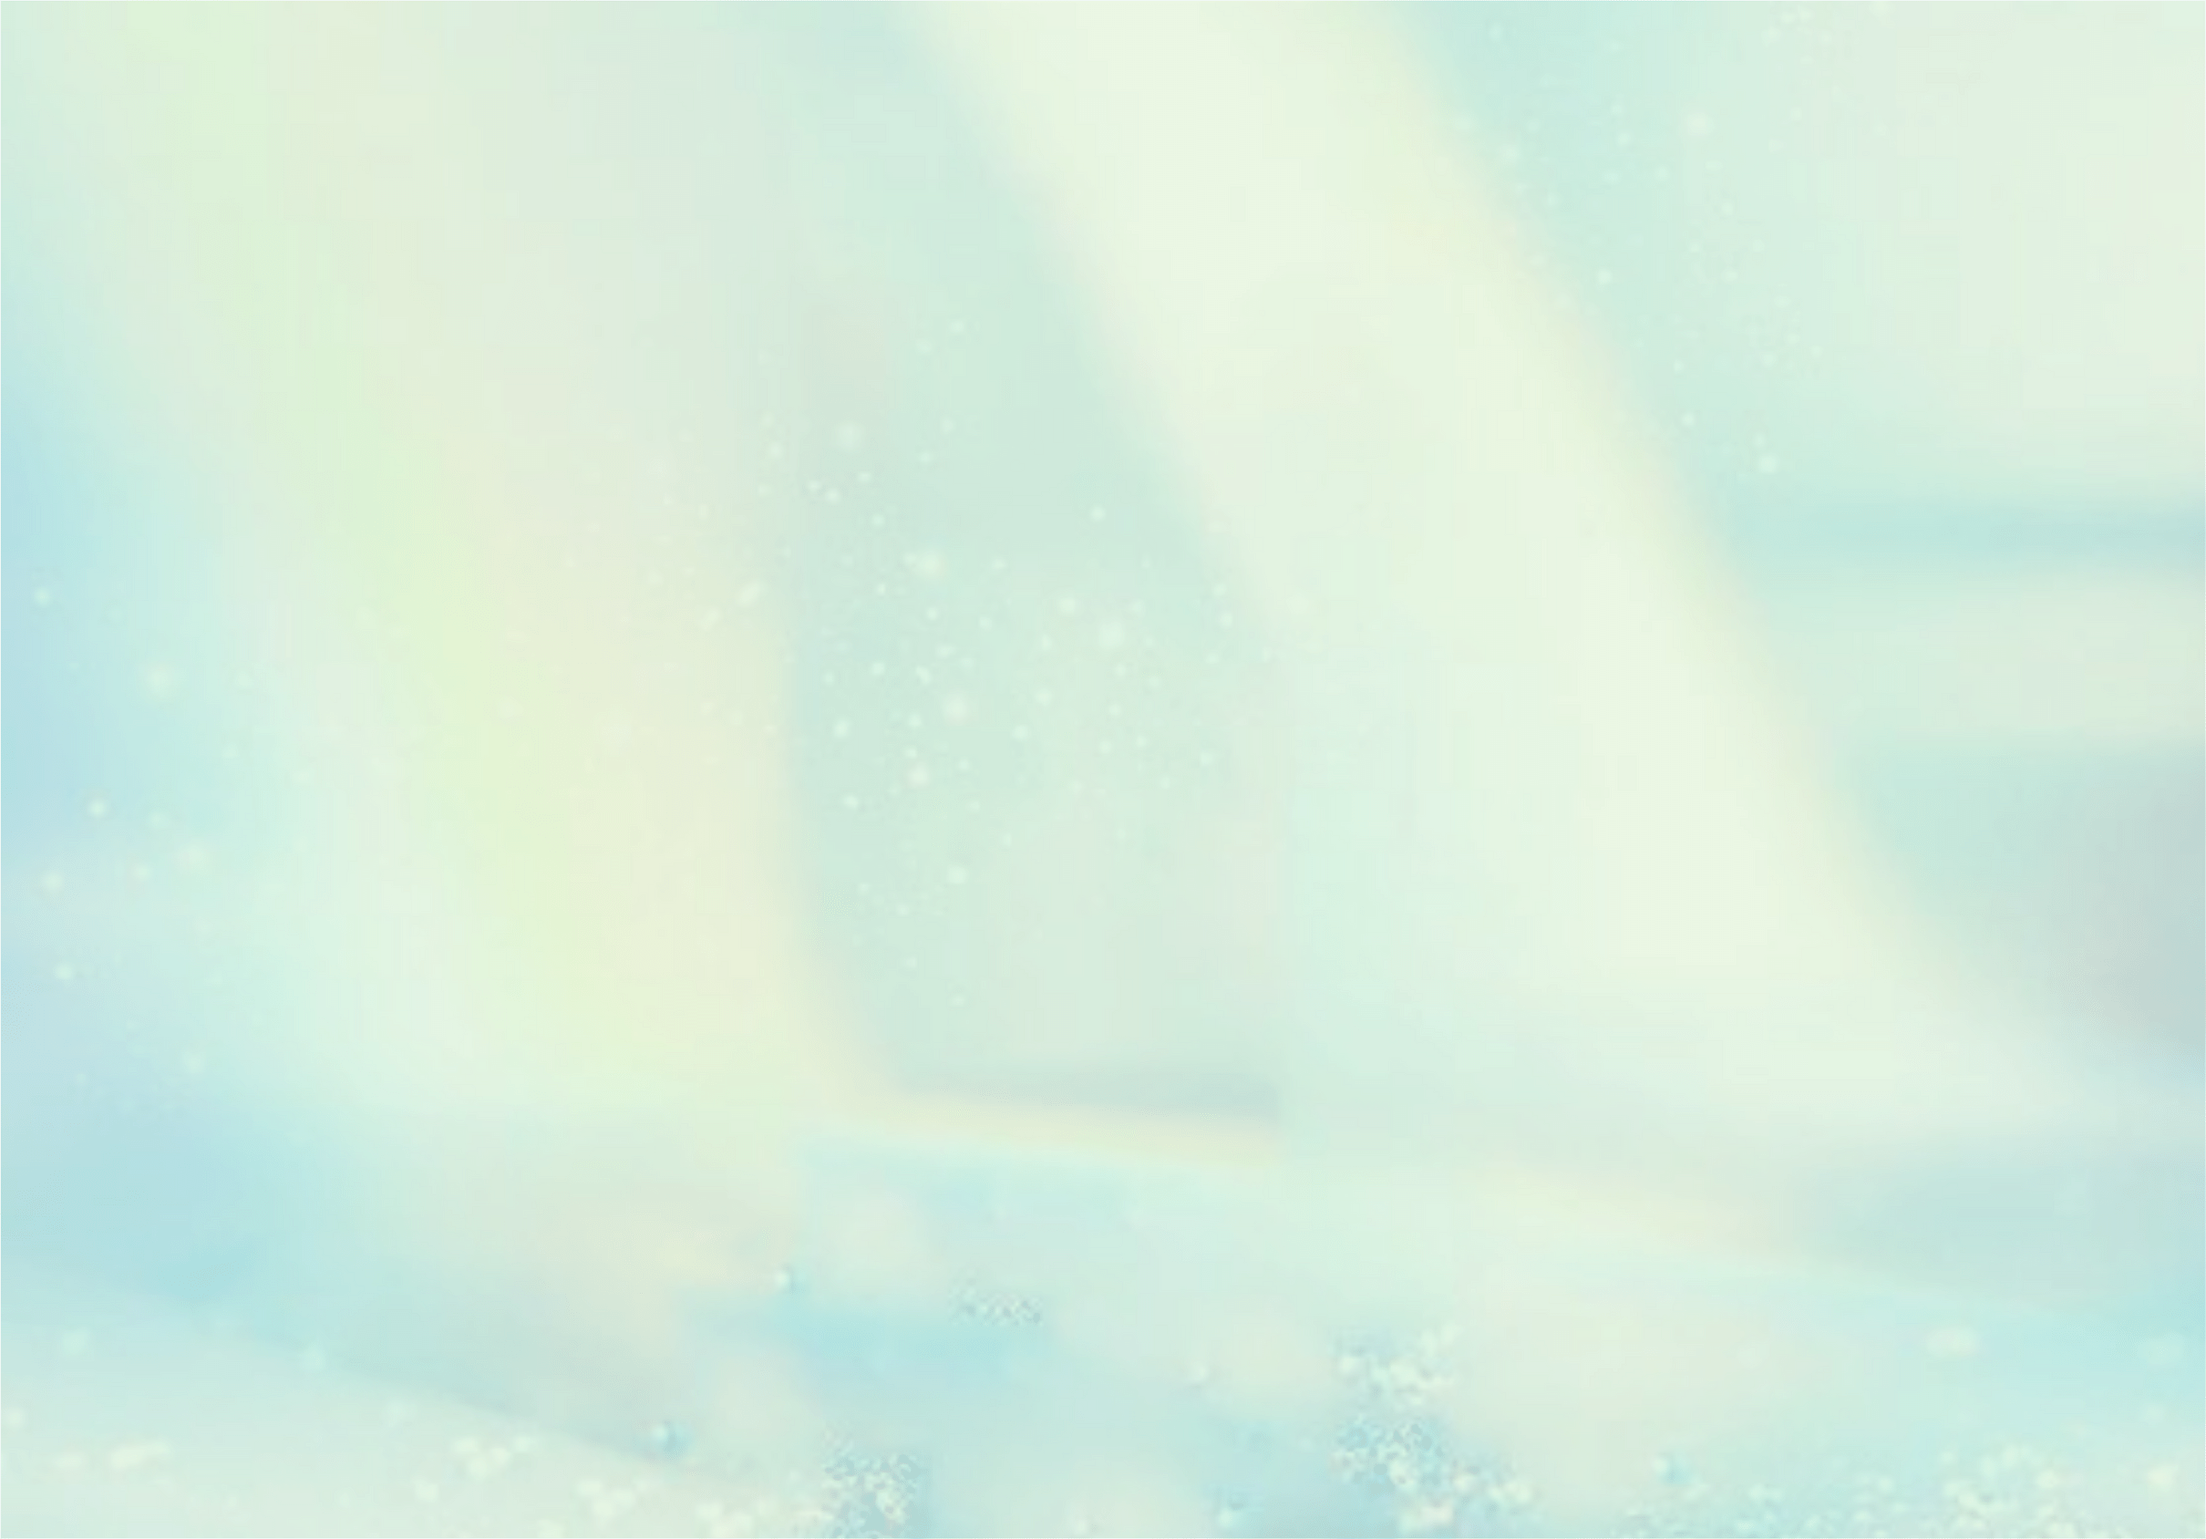
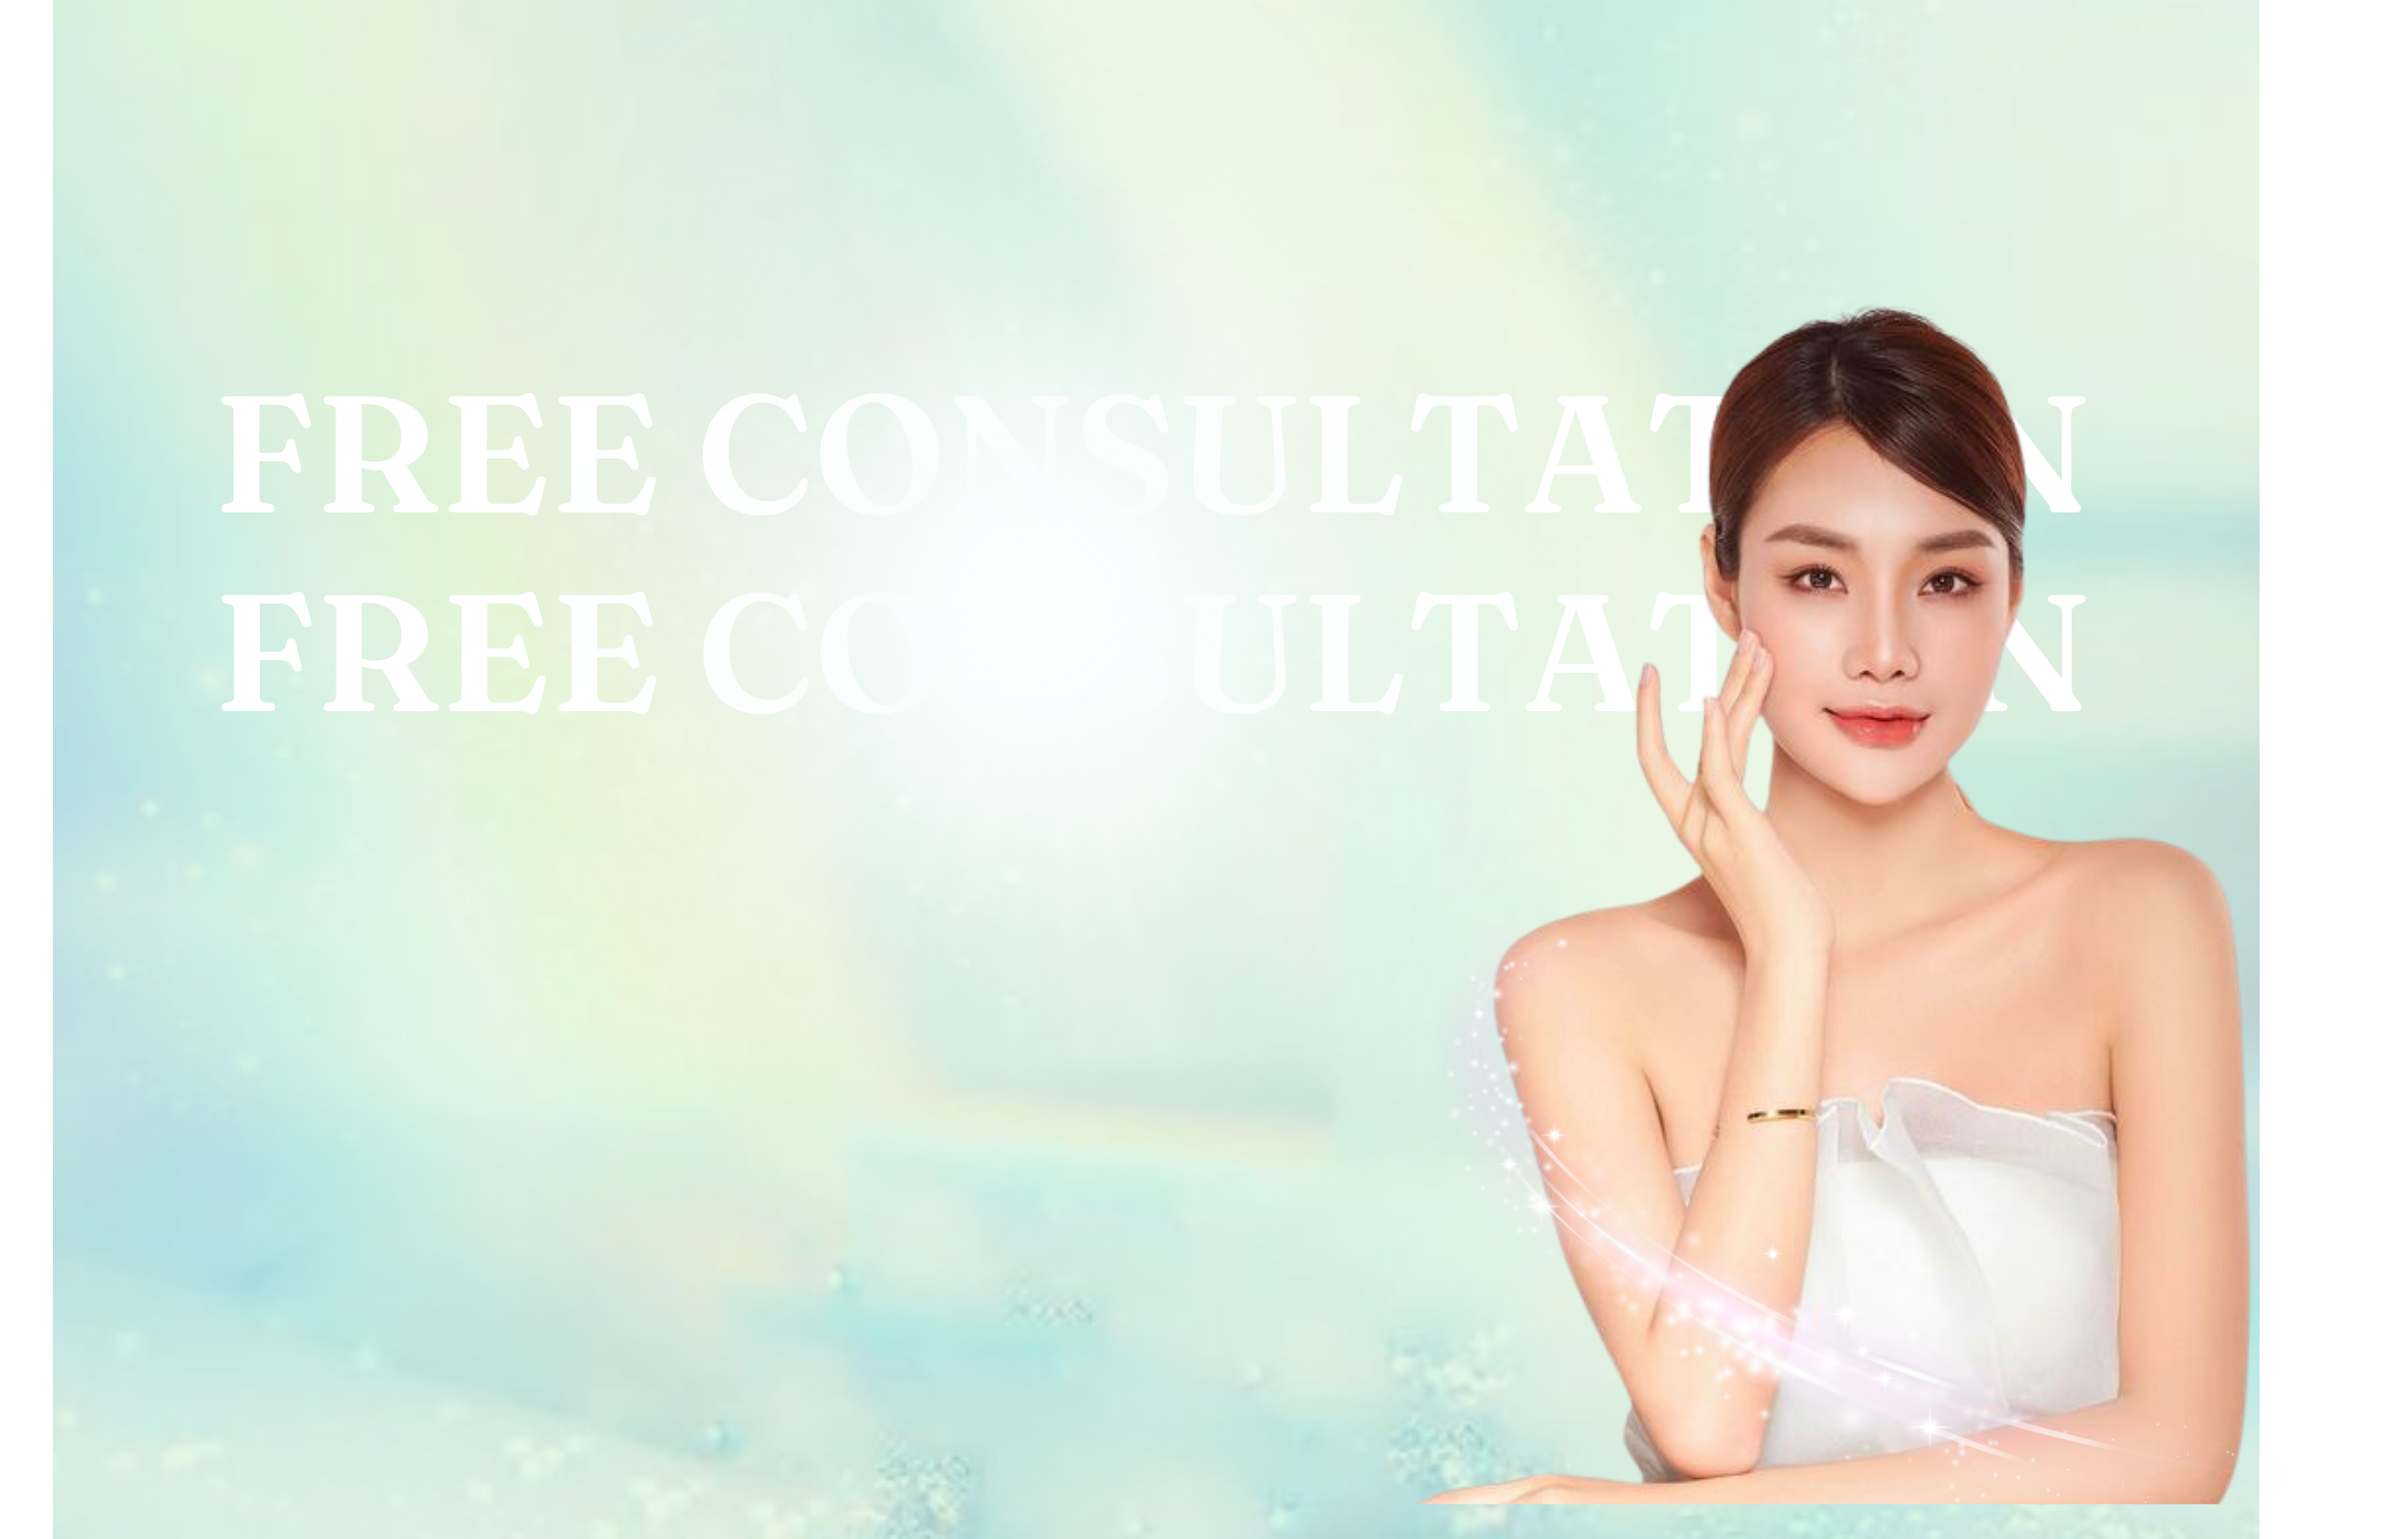
...

diff --git a/index.html b/index.html
@@ -5,15 +5,9 @@
     <meta charset="utf-8">
     <title>SPA Center - Beauty & Spa HTML Template</title>
     <meta content="width=device-width, initial-scale=1.0" name="viewport">
-    <meta content="Free HTML Templates" name="keywords">
-    <meta content="Free HTML Templates" name="description">
 
     <!-- Favicon -->
     <link href="img/favicon.ico" rel="icon">
-
-    <!-- Google Web Fonts -->
-    <link rel="preconnect" href="https://fonts.gstatic.com">
-    <link href="https://fonts.googleapis.com/css2?family=Poppins:wght@400;500;600;700&display=swap" rel="stylesheet">
 
     <!-- Font Awesome -->
     <link href="https://cdnjs.cloudflare.com/ajax/libs/font-awesome/5.10.0/css/all.min.css" rel="stylesheet">
@@ -23,6 +17,9 @@
     <link href="lib/owlcarousel/assets/owl.carousel.min.css" rel="stylesheet">
     <link href="lib/tempusdominus/css/tempusdominus-bootstrap-4.min.css" rel="stylesheet" />
 
+   <link href="https://db.onlinewebfonts.com/c/aad646fe2902d9b4927e14513160239e?family=Fraunces" rel="stylesheet">
+    <link href="https://db.onlinewebfonts.com/c/9e34276744cb289d0976e7ce867266a1?family=Edwardian+Script+ITC+Bold+Alternate" rel="stylesheet">
+        
     <!-- Customized Bootstrap Stylesheet -->
     <link href="css/style.css" rel="stylesheet">
 </head>
@@ -80,7 +77,7 @@
                     <div class="col-lg-9">
                         <div class="text-center">
                             <h1 style="color: #00a8a6;">DISCOMFORT DUE TO SKIN</h5>
-                            <h1><span style="font-family: 'Franklin Gothic Medium', 'Arial Narrow', Arial, sans-serif;">LAKCING</span> FIRMNESS, RADINCE, AND VITALITY.</h5>
+                            <h1><span class="lacking">LAKCING</span> FIRMNESS, RADINCE, AND VITALITY.</h5>
                         </div>
                         <div class="row">
                             <div class="col-sm-6 text-center">
@@ -330,11 +327,51 @@
                 </div>
             </div>
 
-          
+            <div class="container-fluid">
+                <div class="row justify-content-center bg-appointment mx-0" >
+                    <div class="col-lg-6 py-2">
+                        <div class="p-5 my-5" style="background-image: url(img/background-selection-3.png); background-repeat: no-repeat; background-size: cover">
+                            <div class="row">
+                                <div class="col-12 text-center text-uppercase" >
+                                    <h4 style="color: rgb(0, 168, 166);">Get ready for Tet with our beauty treatments.</h4>
+                                </div>
+                            </div>
+                            <div class="row">
+                                <div class="col-12 text-center text-uppercase" >
+                                    <h1 style="color: rgb(0, 168, 166);">FREE CONSULTATION</h1>
+                                </div>
+                            </div>
+                            <div class="row">
+                                <div class="col-2"></div>
+                                <div class="col-7 m-auto text-center">
+                                    <h4 style="color: rgb(0, 168, 166);">Choose 1 beauty package</h4>
+                                    <h4 style="color: rgb(0, 168, 166);">Get 3 services free.</h4>
+                                    <div class="d-flex justify-content-center">
+                                        <div class="timer text-center mr-2" id="hours">00</div>
+                                        <div class="timer text-center mr-2" id="minutes">00</div>
+                                        <div class="timer text-center mr-2" id="seconds">00</div>
+                                    </div>
+                                    <div class="pt-3">
+                                        <input type="text" class="form-control" placeholder="Your Name" required="required" />
+                                        <input type="text" class="form-control mt-2 mb-2" placeholder="Phone number" required="required" />
+                                        <button class="btn btn-block text-white"  type="submit" style="height: 47px; background-color: #00a8a6;">
+                                            <strong style="text-shadow: 2px 2px 2px;">TƯ VẤN NGAY</strong> 
+                                         </button>
+                                    </div>
+                                    
+                
+                                </div>
+                                <div class="col-3">
+                                </div>
+                            </div>
+                        </div>
+                    </div>
+                </div>
+            </div>
         </div>
     </div>
 
-    <div class="body-2" style="background-image: url(img/background-selection-3.png); background-repeat: no-repeat; background-size: cover;  margin-top: -8px;">
+    <!-- <div class="body-3" style="background-image: url(img/background-selection-3.png); background-repeat: no-repeat; background-size: cover;  margin-top: -8px;">
         <div class="container-fluid">
             <br>
             <div class="row">
@@ -373,7 +410,9 @@
                 </div>
             </div>
         </div>
-    </div>
+
+        
+    </div> -->
 
     <!-- Footer Start -->
     <div class="footer container-fluid position-relative py-5" style=" background-color: #E8F4F3;" >

diff --git a/css/style.css b/css/style.css
@@ -32,7 +32,7 @@
   --breakpoint-md: 768px;
   --breakpoint-lg: 992px;
   --breakpoint-xl: 1200px;
-  --font-family-sans-serif: sans-serif;
+  --font-family-sans-serif: 'Fraunces', sans-serif;
   --font-family-monospace: SFMono-Regular, Menlo, Monaco, Consolas, "Liberation Mono", "Courier New", monospace;
 }
 
@@ -43,7 +43,7 @@
 }
 
 html {
-  font-family: sans-serif;
+  font-family: "Fraunces";
   line-height: 1.15;
   -webkit-text-size-adjust: 100%;
   -webkit-tap-highlight-color: rgba(0, 0, 0, 0);
@@ -53,9 +53,15 @@ article, aside, figcaption, figure, footer, header, hgroup, main, nav, section {
   display: block;
 }
 
+
+.lacking {
+  font-family: "Edwardian Script ITC Bold Alternate";
+}
+
+
 body {
   margin: 0;
-  font-family: sans-serif;
+  font-family: "Fraunces";
   font-size: 1rem;
   font-weight: 400;
   line-height: 1.5;
@@ -176,7 +182,7 @@ pre,
 code,
 kbd,
 samp {
-  font-family: SFMono-Regular, Menlo, Monaco, Consolas, "Liberation Mono", "Courier New", monospace;
+  font-family: "Fraunces";
   font-size: 1em;
 }
 
@@ -5568,7 +5574,7 @@ a.close.disabled {
   z-index: 1070;
   display: block;
   margin: 0;
-  font-family: sans-serif;
+  font-family: "Fraunces";
   font-style: normal;
   font-weight: 400;
   line-height: 1.5;
@@ -5680,7 +5686,7 @@ a.close.disabled {
   z-index: 1060;
   display: block;
   max-width: 276px;
-  font-family: "Poppins", sans-serif;
+  font-family: "Fraunces";
   font-style: normal;
   font-weight: 400;
   line-height: 1.5;
